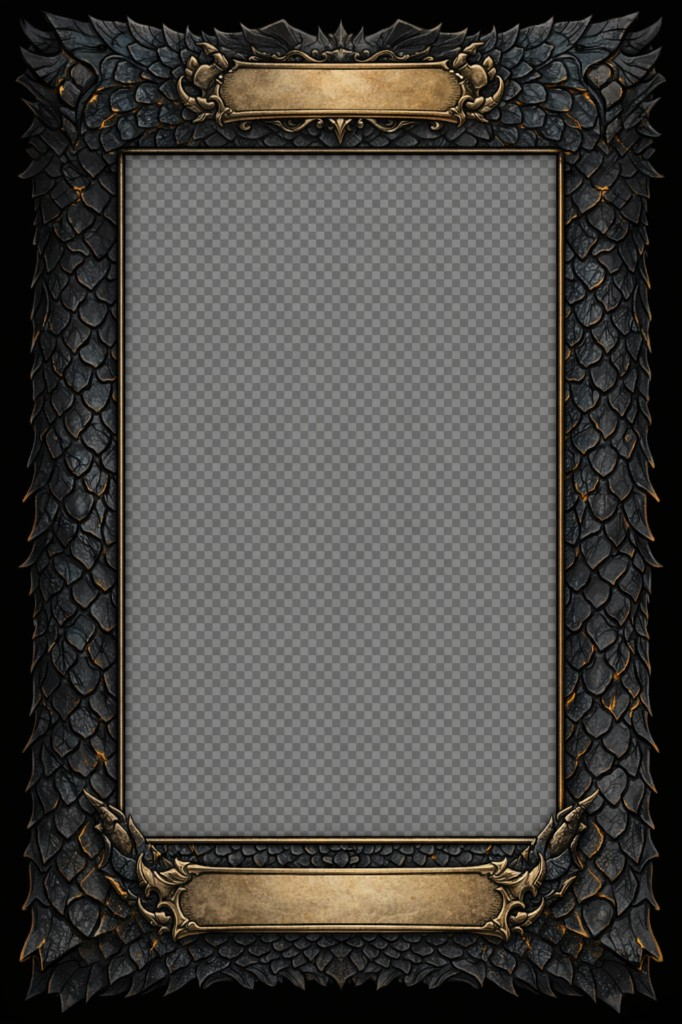
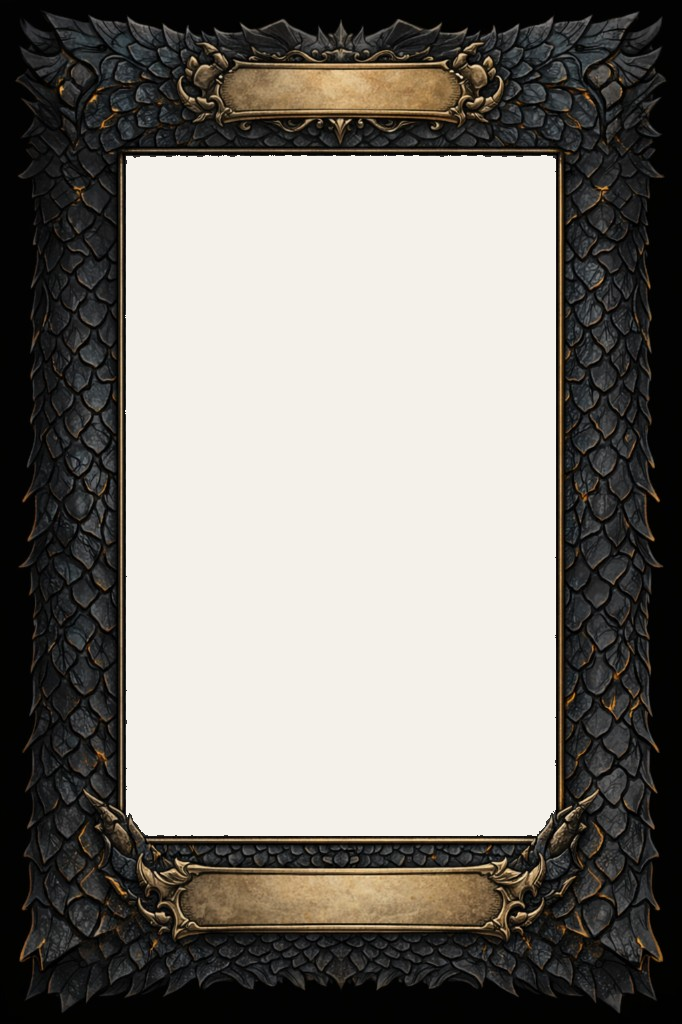
Match Dragon Scale border center to site cream background
Made-with: Cursor

diff --git a/src/app/borders/[slug]/page.tsx b/src/app/borders/[slug]/page.tsx
@@ -737,7 +737,7 @@ export default function BorderPage({ params }: BorderPageProps) {
               {[1, 2, 3].map((i) => (
                 <div
                   key={i}
-                  className="relative aspect-[3/5] overflow-hidden rounded-md border border-charcoal/10 bg-charcoal p-2 shadow-sm"
+                  className="relative aspect-[3/5] overflow-hidden rounded-md border border-charcoal/10 bg-cream p-2 shadow-sm"
                 >
                   <Image
                     src={border.image}

diff --git a/scripts/fill-checkerboard-center-cream.py b/scripts/fill-checkerboard-center-cream.py
@@ -1,0 +1,82 @@
+#!/usr/bin/env python3
+"""
+Replace baked checkerboard / neutral-gray center in a border PNG with site cream (#f4f1ea).
+Flood-fills from image center through neutral (low chroma) pixels above a brightness floor
+so bronze plaques and dragon scales are not touched.
+"""
+from __future__ import annotations
+
+from collections import deque
+from pathlib import Path
+
+try:
+    from PIL import Image
+except ImportError:
+    print("Install Pillow: pip install Pillow")
+    raise SystemExit(1)
+
+# Must match tailwind.config.ts colors.cream
+CREAM = (0xF4, 0xF1, 0xEA, 255)
+
+
+def is_interior(r: int, g: int, b: int) -> bool:
+    """Neutral gray / white checkerboard cells only (not bronze, not dark scales)."""
+    lo, hi = min(r, g, b), max(r, g, b)
+    if hi - lo > 35:
+        return False
+    if r + g + b < 180:
+        return False
+    if r + g + b > 700:
+        return True
+    return 180 <= r + g + b <= 700
+
+
+def fill_center_with_cream(path: Path) -> int:
+    img = Image.open(path).convert("RGBA")
+    w, h = img.size
+    cx, cy = w // 2, h // 2
+    if not is_interior(*img.getpixel((cx, cy))[:3]):
+        print(f"  Skip {path.name}: center pixel does not look like checkerboard")
+        return 0
+
+    pixels = img.load()
+    vis: set[tuple[int, int]] = set()
+    q: deque[tuple[int, int]] = deque([(cx, cy)])
+    changed = 0
+
+    while q:
+        x, y = q.popleft()
+        if (x, y) in vis:
+            continue
+        r, g, b, a = pixels[x, y]
+        if not is_interior(r, g, b):
+            continue
+        vis.add((x, y))
+        pixels[x, y] = CREAM
+        changed += 1
+        for dx, dy in ((0, 1), (0, -1), (1, 0), (-1, 0)):
+            nx, ny = x + dx, y + dy
+            if 0 <= nx < w and 0 <= ny < h and (nx, ny) not in vis:
+                q.append((nx, ny))
+
+    img.save(path, "PNG")
+    return changed
+
+
+def main() -> None:
+    root = Path(__file__).resolve().parent.parent
+    # Default: dragon scale border (baked checkerboard center)
+    default = root / "public" / "images" / "templates" / "dragon-scale-tarot-border.png"
+    import sys
+
+    paths = [Path(p) for p in sys.argv[1:]] if len(sys.argv) > 1 else [default]
+    for path in paths:
+        if not path.is_file():
+            print(f"Not found: {path}")
+            continue
+        n = fill_center_with_cream(path)
+        print(f"  {path.name}: replaced {n} pixels with cream")
+
+
+if __name__ == "__main__":
+    main()
